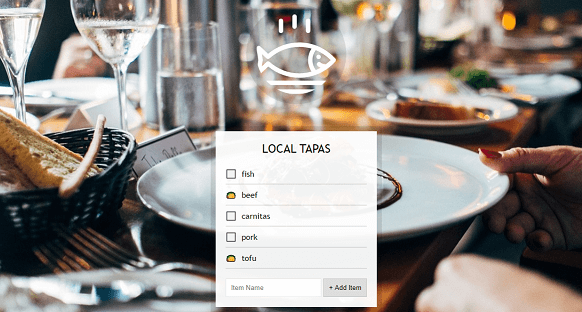
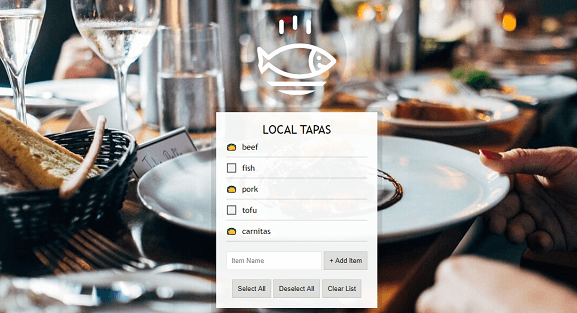
JavaScript30

diff --git a/day-15/script.js b/day-15/script.js
@@ -2,6 +2,9 @@ document.addEventListener("DOMContentLoaded", function () {
 
     const addItems = document.querySelector(".add-items");
     const itemsList = document.querySelector(".plates");
+    const all = document.querySelector("#all");
+    const none = document.querySelector("#none");
+    const clear = document.querySelector("#clear");
     const items = JSON.parse(localStorage.getItem("items")) || []; // existing localStorage items, or blank []
 
 
@@ -41,8 +44,38 @@ document.addEventListener("DOMContentLoaded", function () {
         populateList(items, itemsList); // visually update the checkbox
     }
 
+    function selectAll() {
+        if (localStorage.getItem("items")) {
+            items.forEach((item) => {
+                item.done = true; // for each item, set 'done' to true
+                localStorage.setItem("items", JSON.stringify(items)); // update localStorage as such
+                populateList(items, itemsList); // visually update the checkbox
+            });
+        }
+    }
+
+    function deselectAll() {
+        if (localStorage.getItem("items")) {
+            items.forEach((item) => {
+                item.done = false; // for each item, set 'done' to false
+                localStorage.setItem("items", JSON.stringify(items)); // update localStorage as such
+                populateList(items, itemsList); // visually update the checkbox
+            });
+        }
+    }
+
+    function clearList() {
+        itemsList.innerHTML = ""; // reset .plates to original
+        localStorage.clear("items"); // remove from localStorage
+        localStorage.removeItem("items"); // remove from localStorage
+        items.length = 0; // reset items[] back to empty array
+    }
+
     addItems.addEventListener("submit", addItem); // on 'submit', add value of input
     itemsList.addEventListener("click", toggleDone); // on 'click', toggle checkbox
     populateList(items, itemsList); // build list of <li> elements from localStorage or new items
+    all.addEventListener("click", selectAll); // select all checkboxes
+    none.addEventListener("click", deselectAll); // deselect all checkboxes
+    clear.addEventListener("click", clearList); // clear entire list of items
 
 });

diff --git a/day-15/style.css b/day-15/style.css
@@ -1,6 +1,6 @@
 html {
     box-sizing: border-box;
-    background: url("http://wes.io/hx9M/oh-la-la.jpg") center no-repeat;
+    background: url("bg.jpg") center no-repeat;
     background-size: cover;
     min-height: 100vh;
     display: flex;
@@ -18,7 +18,7 @@ svg {
     padding: 20px;
     border-radius: 50%;
     width: 200px;
-    margin-bottom: 50px;
+    margin-bottom: 10px;
 }
 
 .wrapper {
@@ -74,4 +74,10 @@ h2 {
     padding: 10px;
     outline: 0;
     border: 1px solid rgba(0, 0, 0, 0.1);
+    cursor: pointer;
+    transition: all 0.2s ease-in-out;
+}
+
+.add-items input:hover {
+    box-shadow: 0 0 5px rgba(0, 0, 0, 0.25);
 }

diff --git a/day-15/index.html b/day-15/index.html
@@ -34,13 +34,16 @@
 
     <div class="wrapper">
         <h2>LOCAL TAPAS</h2>
-        <p></p>
         <ul class="plates">
             <li>Loading Tapas...</li>
         </ul>
         <form class="add-items">
             <input type="text" name="item" placeholder="Item Name" required>
             <input type="submit" value="+ Add Item">
+            <br><br>
+            <input type="button" value="Select All" id="all">
+            <input type="button" value="Deselect All" id="none">
+            <input type="button" value="Clear List" id="clear">
         </form>
     </div>
 
